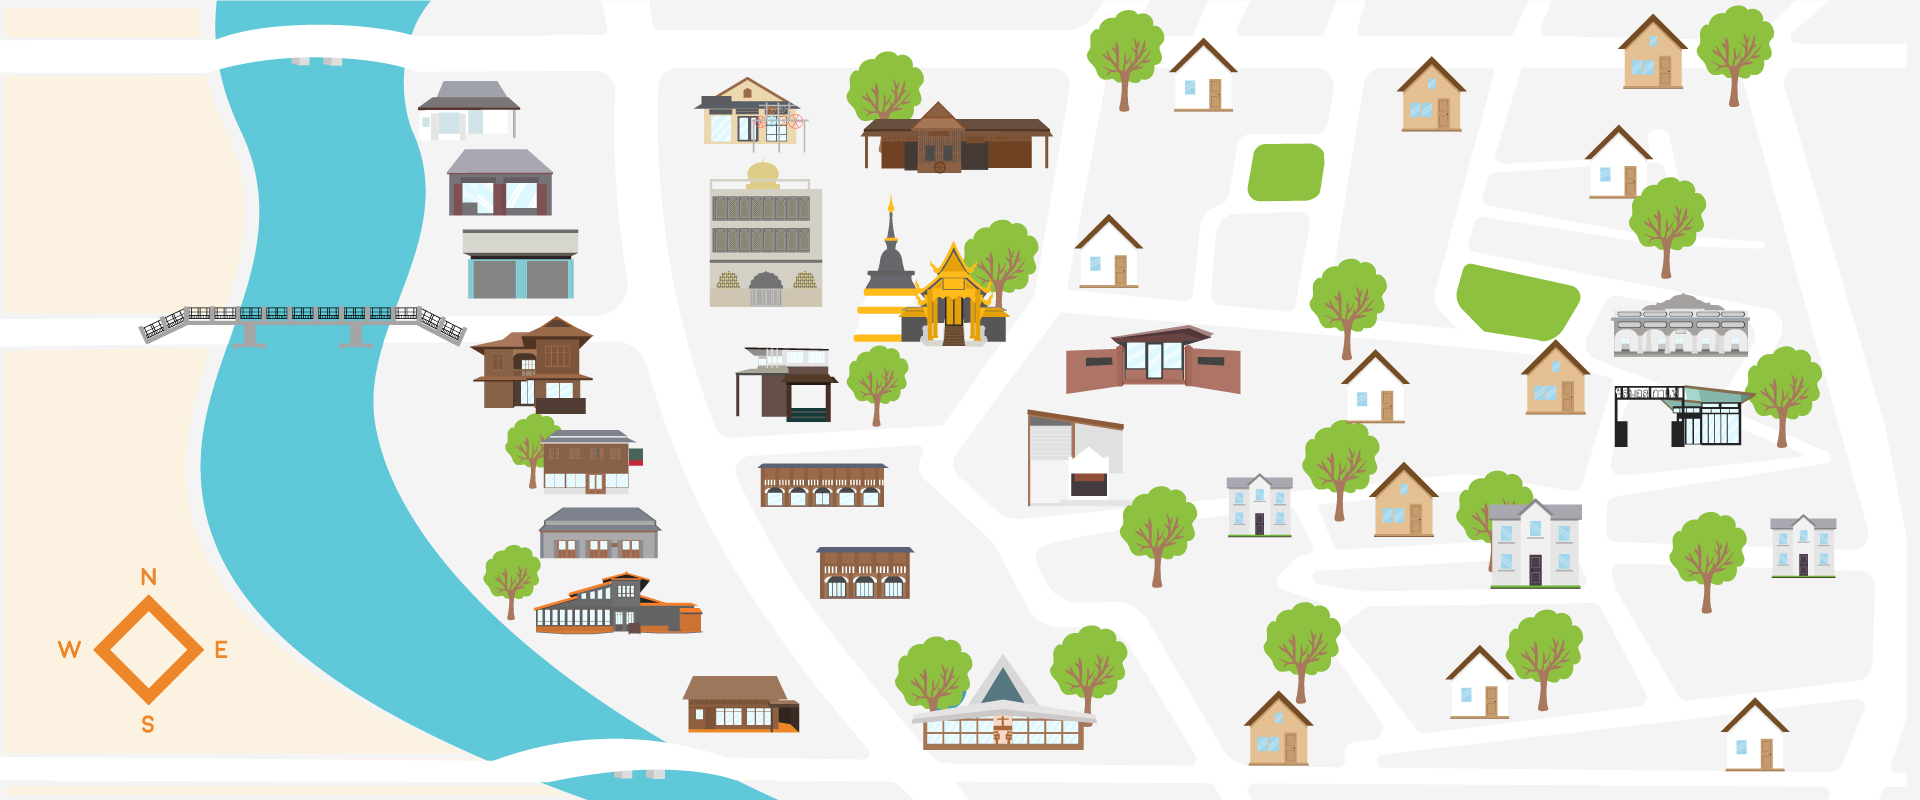
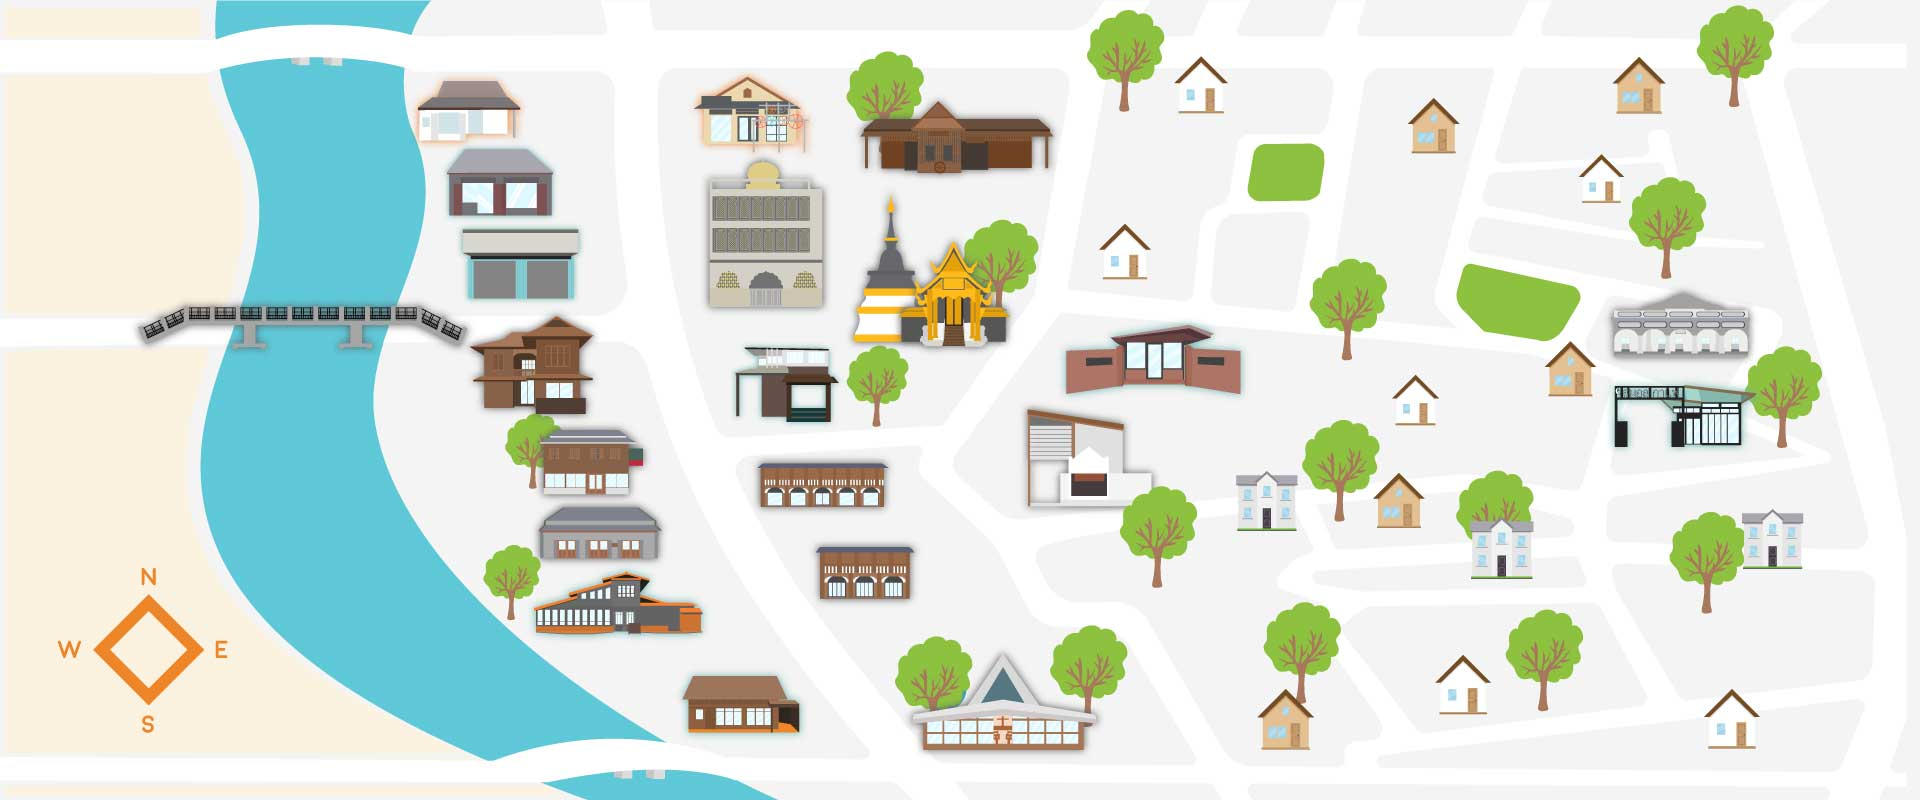
update 23
-แก้ อำเภอ
-เพิ่มdrop shadow map

diff --git a/th/food-steamedricedumplings.html b/th/food-steamedricedumplings.html
@@ -150,7 +150,7 @@
           <!-- BEGIN DETAIL DATA -->
           <ul class="list-unstyled">
             <li><i class="fa fa-phone"></i> 053-243-157 </li>
-            <li> <i class="fa fa-home"></i> 107 ถนนเจริญราษฎร์ ตำบลวัดเกต อำเมืองเชียงใหม่ จังหวัดเชียงใหม่ 50000</li>
+            <li> <i class="fa fa-home"></i> 107 ถนนเจริญราษฎร์ ตำบลวัดเกต อำเภอเมืองเชียงใหม่ จังหวัดเชียงใหม่ 50000</li>
             <!--li><i class="fa fa-facebook-square"></i><a href="https://www.facebook.com/smallcafewatkate">
        ข้าวเกรียบปากหม้อ ลุงขจร วัดเกตุ</a></li-->
             <!-- COORDINATE INFO -->

diff --git a/th/history-watketkarammuseum.html b/th/history-watketkarammuseum.html
@@ -151,7 +151,7 @@
         <!-- BEGIN DETAIL DATA -->
         <ul class="list-unstyled">
           <li><i class="fa fa-phone"></i> 053-262-605 </li>
-          <li> <i class="fa fa-home"></i> เลขที่ 96 บ้านวัดเกต ถนน เจริญราษฎร์ ตำบล วัดเกต อำเภอ เมือง เชียงใหม่ 50000 </li>
+          <li> <i class="fa fa-home"></i> เลขที่ 96 บ้านวัดเกต ถนน เจริญราษฎร์ ตำบลวัดเกต อำเภอเมืองเชียงใหม่ จังหวัดเชียงใหม่ 50000 </li>
           <li><i class="fa fa-facebook-square"></i><a href="http://watketmuseum.com/index.php">
     พิพิธภัณฑ์วัดเกต </a></li>
           <!-- COORDINATE INFO -->

diff --git a/th/history-gurudwarasinghsabha.html b/th/history-gurudwarasinghsabha.html
@@ -154,7 +154,7 @@
         <!-- BEGIN DETAIL DATA -->
         <ul class="list-unstyled">
           <li><i class="fa fa-phone"></i> 053-246-537 </li>
-          <li> <i class="fa fa-home"></i> 134 ถนนเจริญราษฎร์ ตำบลวัดเกต อำเมืองเชียงใหม่ จังหวัดเชียงใหม่ 50000 </li>
+          <li> <i class="fa fa-home"></i> 134 ถนนเจริญราษฎร์ ตำบลวัดเกต อำเภอเมืองเชียงใหม่ จังหวัดเชียงใหม่ 50000 </li>
           <li><i class="fa fa-facebook-square"></i><a href="https://www.facebook.com/Gurudwara-Sri-Guru-Singh-Sabha-Chiang-Mai-289004291139307/">
           GurudwaraSriGuruSinghSabhaChiang Mai</a></li>
             <!-- COORDINATE INFO -->

diff --git a/th/history-healingfamilyfoundation.html b/th/history-healingfamilyfoundation.html
@@ -155,7 +155,7 @@
         <!-- BEGIN DETAIL DATA -->
         <ul class="list-unstyled">
           <li><i class="fa fa-phone"></i> 053-244-393 </li>
-          <li> <i class="fa fa-home"></i> 2 ซอย หน้าวัดเกต  ตำบลวัดเกต อำเมืองเชียงใหม่ จังหวัดเชียงใหม่ 50000</li>
+          <li> <i class="fa fa-home"></i> 2 ซอย หน้าวัดเกต ตำบลวัดเกต อำเภอเมืองเชียงใหม่ จังหวัดเชียงใหม่ 50000</li>
           <li><i class="fa fa-facebook-square"></i><a href="https://www.facebook.com/healingfamilyfoundation">
           มูลนิธิบ้านสมานใจ เชียงใหม่</a></li>
             <!-- COORDINATE INFO -->

diff --git a/th/history-themeetingroomartcafe.html b/th/history-themeetingroomartcafe.html
@@ -152,7 +152,7 @@
         <!-- BEGIN DETAIL DATA -->
         <ul class="list-unstyled">
           <li><i class="fa fa-phone"></i> 080-627-9219 </li>
-          <li> <i class="fa fa-home"></i> 89 ถนนเจริญราษฎร์ ตำบลวัดเกต อำเมืองเชียงใหม่ จังหวัดเชียงใหม่ 50000 </li>
+          <li> <i class="fa fa-home"></i> 89 ถนนเจริญราษฎร์ ตำบลวัดเกต อำเภอเมืองเชียงใหม่ จังหวัดเชียงใหม่ 50000 </li>
           <li><i class="fa fa-facebook-square"></i><a href="https://www.facebook.com/themeetingroomartcafe/?fref=ts&rf=439070649461225">
   The Meeting Room Art Cafe </a></li>
             <!-- COORDINATE INFO -->

diff --git a/th/history-takwamosque.html b/th/history-takwamosque.html
@@ -151,7 +151,7 @@
         <!-- BEGIN DETAIL DATA -->
         <ul class="list-unstyled">
           <li><i class="fa fa-phone"></i> 087-661-8985 </li>
-          <li> <i class="fa fa-home"></i> ถนนเจริญเมือง ตำบลวัดเกต อำเมืองเชียงใหม่ จังหวัดเชียงใหม่ 50000 </li>
+          <li> <i class="fa fa-home"></i> ถนนเจริญเมือง ตำบลวัดเกต อำเภอเมืองเชียงใหม่ จังหวัดเชียงใหม่ 50000 </li>
           <li><i class="fa fa-facebook-square"></i><a href="https://attaqwa2877.blogspot.com/">
         มัสยิดอัตตักวา เชียงใหม่ </a></li>
             <!-- COORDINATE INFO -->

diff --git a/th/art-orientalstyle.html b/th/art-orientalstyle.html
@@ -152,7 +152,7 @@
         <!-- BEGIN DETAIL DATA -->
         <ul class="list-unstyled">
           <li><i class="fa fa-phone"></i> 053-245-724, 053-243-156 </li>
-          <li> <i class="fa fa-home"></i> 34-44 ถนนเจริญราษฎร์ ตำบลวัดเกต อำเมืองเชียงใหม่ จังหวัดเชียงใหม่ 50000</li>
+          <li> <i class="fa fa-home"></i> 34-44 ถนนเจริญราษฎร์ ตำบลวัดเกต อำเภอเมืองเชียงใหม่ จังหวัดเชียงใหม่ 50000 </li>
           <li><i class="fa fa-facebook-square"></i><a href="https://www.facebook.com/Oriental-Style-1484396275172640/">
        Oriental Style</a></li>
           <!-- COORDINATE INFO -->

diff --git a/th/food-theriversidebar.html b/th/food-theriversidebar.html
@@ -150,7 +150,7 @@
           <!-- BEGIN DETAIL DATA -->
           <ul class="list-unstyled">
             <li><i class="fa fa-phone"></i> 053-243-239 </li>
-            <li> <i class="fa fa-home"></i> 	9-11 ถนนเจริญราษฎร์ ตำบลวัดเกต อำเมืองเชียงใหม่ จังหวัดเชียงใหม่ 50000</li>
+            <li> <i class="fa fa-home"></i> 	9-11 ถนนเจริญราษฎร์ ตำบลวัดเกต อำเภอเมืองเชียงใหม่ จังหวัดเชียงใหม่ 50000</li>
             <li><i class="fa fa-facebook-square"></i><a href="https://www.facebook.com/theriversidechiangmai/">
        Theriversidechiangmai</a></li>
             <!-- COORDINATE INFO -->

diff --git a/th/history-reginagarden.html b/th/history-reginagarden.html
@@ -152,7 +152,7 @@
         <!-- BEGIN DETAIL DATA -->
         <ul class="list-unstyled">
           <li><i class="fa fa-phone"></i> 053-262-882 </li>
-          <li> <i class="fa fa-home"></i> 69 ถนนเจริญราษฎร์ ตำบลวัดเกต อำเมืองเชียงใหม่ จังหวัดเชียงใหม่ 50000 </li>
+          <li> <i class="fa fa-home"></i> 69 ถนนเจริญราษฎร์ ตำบลวัดเกต อำเภอเมืองเชียงใหม่ จังหวัดเชียงใหม่ 50000 </li>
           <li><i class="fa fa-facebook-square"></i><a href="https://www.facebook.com/Regina-Garden-Restaurant-282235905131075/">
         Regina Garden</a></li>
             <!-- COORDINATE INFO -->

diff --git a/th/history-thegallery.html b/th/history-thegallery.html
@@ -153,7 +153,7 @@
         <!-- BEGIN DETAIL DATA -->
         <ul class="list-unstyled">
           <li><i class="fa fa-phone"></i> 053-248-602 </li>
-          <li> <i class="fa fa-home"></i> 25-27-29 ถนนเจริญราษฎร์ ตำบลวัดเกต อำเมืองเชียงใหม่ จังหวัดเชียงใหม่ 50000 </li>
+          <li> <i class="fa fa-home"></i> 25-27-29 ถนนเจริญราษฎร์ ตำบลวัดเกต อำเภอเมืองเชียงใหม่ จังหวัดเชียงใหม่ 50000 </li>
           <li><i class="fa fa-facebook-square"></i><a href="https://www.facebook.com/byriverping/?rf=170652329643870">
   The Gallery </a></li>
             <!-- COORDINATE INFO -->

diff --git a/th/food-cakebaanpiemsuk.html b/th/food-cakebaanpiemsuk.html
@@ -151,7 +151,7 @@
         <!-- BEGIN DETAIL DATA -->
         <ul class="list-unstyled">
           <li><i class="fa fa-phone"></i> 085-708-8988 </li>
-          <li> <i class="fa fa-home"></i> ถนนเจริญราษฎร์ ตำบลวัดเกต อำเมืองเชียงใหม่ จังหวัดเชียงใหม่ 50000 </li>
+          <li> <i class="fa fa-home"></i> ถนนเจริญราษฎร์ ตำบลวัดเกต อำเภอเมืองเชียงใหม่ จังหวัดเชียงใหม่ 50000 </li>
           <li><i class="fa fa-facebook-square"></i><a href="https://www.facebook.com/baanpiemsuk">
              บ้านเปี่ยมสุข</a></li>
           <!-- COORDINATE INFO -->

diff --git a/th/food-goodview.html b/th/food-goodview.html
@@ -149,7 +149,7 @@
           <!-- BEGIN DETAIL DATA -->
           <ul class="list-unstyled">
             <li><i class="fa fa-phone"></i> 053-241-866 </li>
-            <li> <i class="fa fa-home"></i> 13 ถนนเจริญราษฎร์ ตำบลวัดเกต อำเมืองเชียงใหม่ จังหวัดเชียงใหม่ 50000</li>
+            <li> <i class="fa fa-home"></i> 13 ถนนเจริญราษฎร์ ตำบลวัดเกต อำเภอเมืองเชียงใหม่ จังหวัดเชียงใหม่ 50000</li>
             <li><i class="fa fa-facebook-square"></i><a href="https://www.facebook.com/goodview.cm/">
                Goodview Chiangmai</a></li>
             <!-- COORDINATE INFO -->
